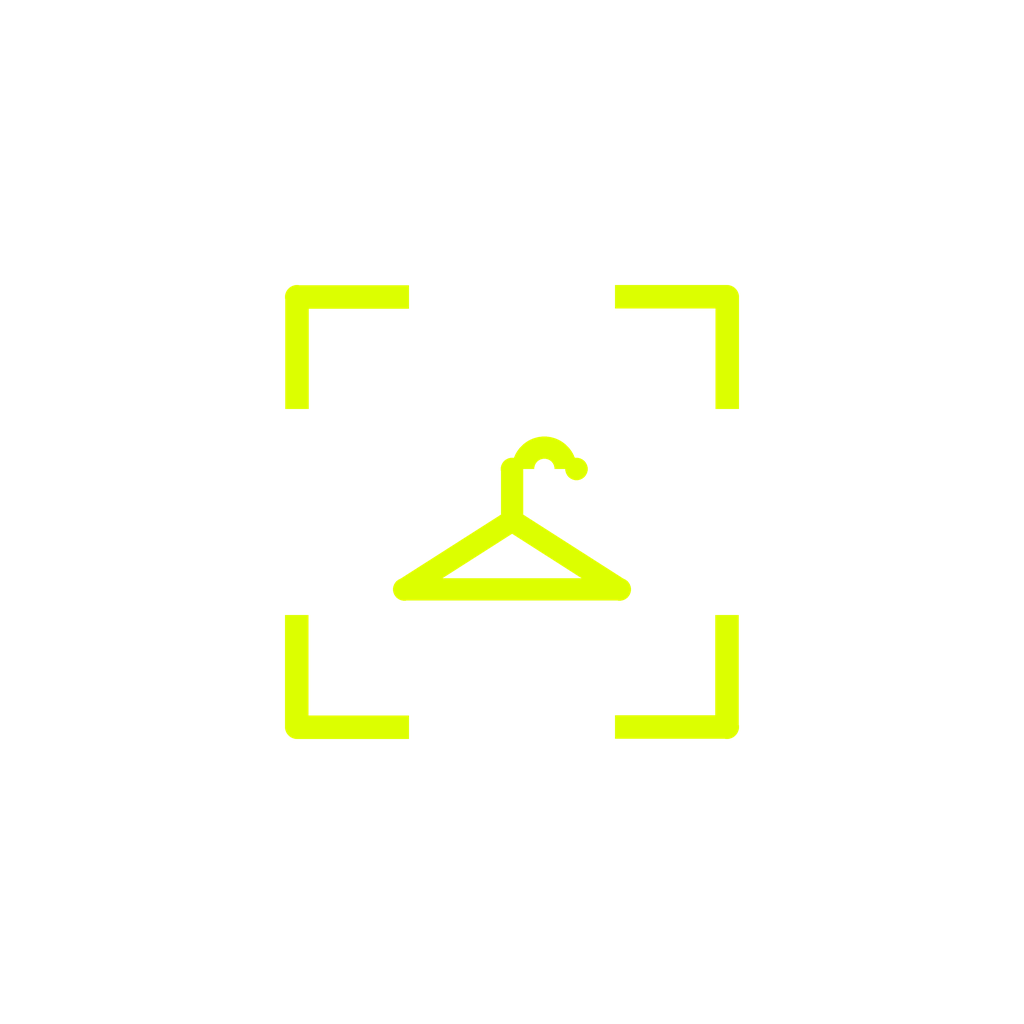
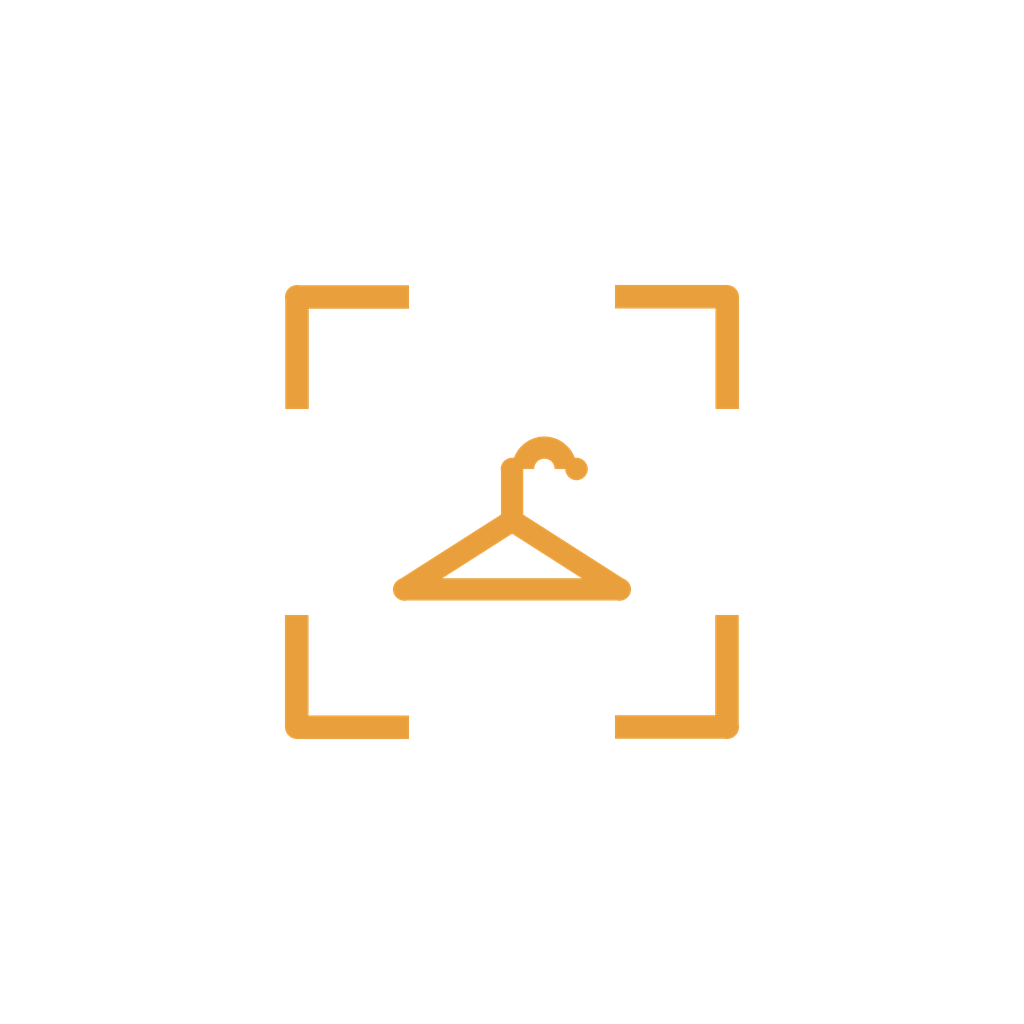
feat: warm amber accent (#e9a03c), fix headline clipping, hide unconfigured Google button

diff --git a/mobile/app/(auth)/welcome.tsx b/mobile/app/(auth)/welcome.tsx
@@ -100,12 +100,11 @@ export default function WelcomeScreen() {
         <View style={styles.hero}>
           <Text style={styles.wordmark}>Chic Finder</Text>
           <Text style={styles.headline}>
-            Snap an{"\n"}outfit.{"\n"}
-            <Text style={styles.headlineMuted}>Find it{"\n"}in Egypt.</Text>
+            Find fashion{"\n"}
+            <Text style={styles.headlineMuted}>that fits you.</Text>
           </Text>
           <Text style={styles.sub}>
-            Photograph any look and ChicFinder matches it against real products
-            from Egyptian brands.
+            Snap any outfit. Shop it from Egyptian brands.
           </Text>
         </View>
 
@@ -130,20 +129,24 @@ export default function WelcomeScreen() {
             />
           ) : null}
 
-          <Button
-            label="Continue with Google"
-            icon="logo-google"
-            variant="secondary"
-            loading={busy === "google"}
-            disabled={!isGoogleReady || busy !== null}
-            onPress={() => run("google", signInWithGoogle)}
-          />
+          {isGoogleReady ? (
+            <Button
+              label="Continue with Google"
+              icon="logo-google"
+              variant="secondary"
+              loading={busy === "google"}
+              disabled={busy !== null}
+              onPress={() => run("google", signInWithGoogle)}
+            />
+          ) : null}
 
-          <View style={styles.separator}>
-            <View style={styles.line} />
-            <Text style={styles.separatorText}>or</Text>
-            <View style={styles.line} />
-          </View>
+          {isAppleAvailable || isGoogleReady ? (
+            <View style={styles.separator}>
+              <View style={styles.line} />
+              <Text style={styles.separatorText}>or</Text>
+              <View style={styles.line} />
+            </View>
+          ) : null}
 
           <TextInput
             style={styles.input}
@@ -230,11 +233,11 @@ const styles = StyleSheet.create({
   root: { flex: 1, backgroundColor: colors.bg },
   content: {
     paddingHorizontal: spacing.lg + 4,
-    gap: spacing.xl,
+    gap: spacing.lg + 4,
     flexGrow: 1,
   },
 
-  hero: { gap: spacing.md },
+  hero: { gap: spacing.sm + 2 },
   wordmark: {
     ...typography.title,
     fontSize: 15,

diff --git a/mobile/src/context/AuthContext.tsx b/mobile/src/context/AuthContext.tsx
@@ -89,10 +89,18 @@ export function AuthProvider({ children }: { children: ReactNode }) {
   const [isAppleAvailable, setAppleAvailable] = useState(false);
 
   // Google sign-in via the system browser. The client IDs are public.
+  const googleIosClientId = process.env.EXPO_PUBLIC_GOOGLE_IOS_CLIENT_ID;
+  const googleAndroidClientId = process.env.EXPO_PUBLIC_GOOGLE_ANDROID_CLIENT_ID;
+  const googleWebClientId = process.env.EXPO_PUBLIC_GOOGLE_WEB_CLIENT_ID;
+
+  const hasGoogleConfig = Boolean(
+    googleIosClientId || googleAndroidClientId || googleWebClientId
+  );
+
   const [googleRequest, googleResponse, promptGoogle] = Google.useIdTokenAuthRequest({
-    iosClientId: process.env.EXPO_PUBLIC_GOOGLE_IOS_CLIENT_ID,
-    androidClientId: process.env.EXPO_PUBLIC_GOOGLE_ANDROID_CLIENT_ID,
-    webClientId: process.env.EXPO_PUBLIC_GOOGLE_WEB_CLIENT_ID,
+    iosClientId: googleIosClientId,
+    androidClientId: googleAndroidClientId,
+    webClientId: googleWebClientId,
   });
 
   useEffect(() => {
@@ -168,14 +176,14 @@ export function AuthProvider({ children }: { children: ReactNode }) {
   }, []);
 
   const signInWithGoogle = useCallback(async () => {
-    if (!googleRequest) {
+    if (!hasGoogleConfig || !googleRequest) {
       throw new AuthError("Google sign-in is not configured yet.");
     }
     const result = await promptGoogle();
     if (result.type === "error") {
       throw new AuthError("Google sign-in failed. Please try again.");
     }
-  }, [googleRequest, promptGoogle]);
+  }, [hasGoogleConfig, googleRequest, promptGoogle]);
 
   const signInWithEmail = useCallback(async (email: string, password: string) => {
     try {
@@ -210,7 +218,7 @@ export function AuthProvider({ children }: { children: ReactNode }) {
       user,
       initialising,
       isAppleAvailable,
-      isGoogleReady: Boolean(googleRequest),
+      isGoogleReady: hasGoogleConfig && Boolean(googleRequest),
       signInWithApple,
       signInWithGoogle,
       signInWithEmail,
@@ -222,6 +230,7 @@ export function AuthProvider({ children }: { children: ReactNode }) {
       user,
       initialising,
       isAppleAvailable,
+      hasGoogleConfig,
       googleRequest,
       signInWithApple,
       signInWithGoogle,

diff --git a/mobile/src/theme.ts b/mobile/src/theme.ts
@@ -29,9 +29,9 @@ export const colors = {
   /** Dark contrast blocks and the primary button. */
   olive: "#1e2300",
   /** The accent. Fills only, never text. */
-  accent: "#dcff00",
+  accent: "#e9a03c",
   /** Soft accent wash for icon tiles and empty states. */
-  accentSoft: "#eaf4a0",
+  accentSoft: "#f4e2c4",
   /** Destructive. Warmed so it belongs in this palette rather than iOS red. */
   danger: "#a63d2b",
   /** Text and icons that sit on `olive`. */
@@ -74,21 +74,21 @@ export const typography = {
   display: {
     fontFamily: fonts.display,
     fontSize: 38,
-    lineHeight: 38,
+    lineHeight: 42,
     letterSpacing: -0.4,
     textTransform: "uppercase" as const,
   },
   displayLarge: {
     fontFamily: fonts.display,
-    fontSize: 52,
-    lineHeight: 48,
+    fontSize: 46,
+    lineHeight: 50,
     letterSpacing: -0.8,
     textTransform: "uppercase" as const,
   },
   title: {
     fontFamily: fonts.display,
     fontSize: 26,
-    lineHeight: 27,
+    lineHeight: 30,
     letterSpacing: -0.2,
     textTransform: "uppercase" as const,
   },

diff --git a/mobile/scripts/generate_icons.py b/mobile/scripts/generate_icons.py
@@ -26,7 +26,7 @@ from PIL import Image, ImageDraw
 ASSETS = Path(__file__).resolve().parent.parent / "assets"
 
 BG = (30, 35, 0, 255)         # colors.olive, the brand dark block
-ACCENT = (220, 255, 0, 255)   # colors.accent
+ACCENT = (233, 160, 60, 255)  # colors.accent, warm amber
 OLIVE = (30, 35, 0, 255)      # colors.olive, for marks drawn on the bone splash
 BONE = (237, 234, 226, 255)   # colors.bg
 SIZE = 1024
